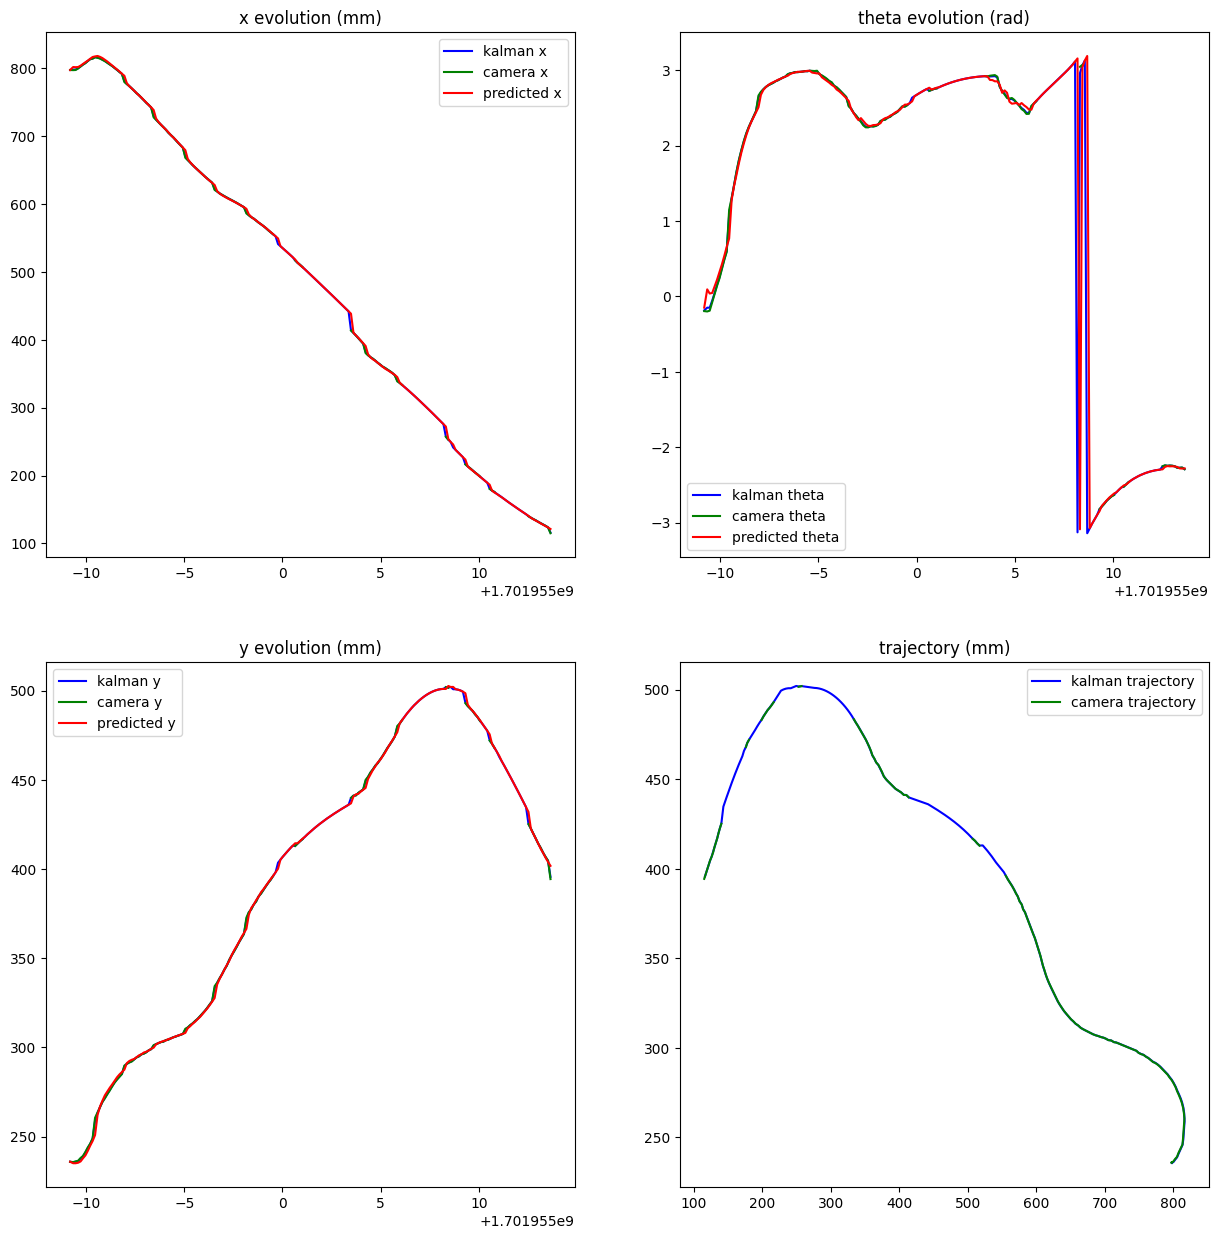
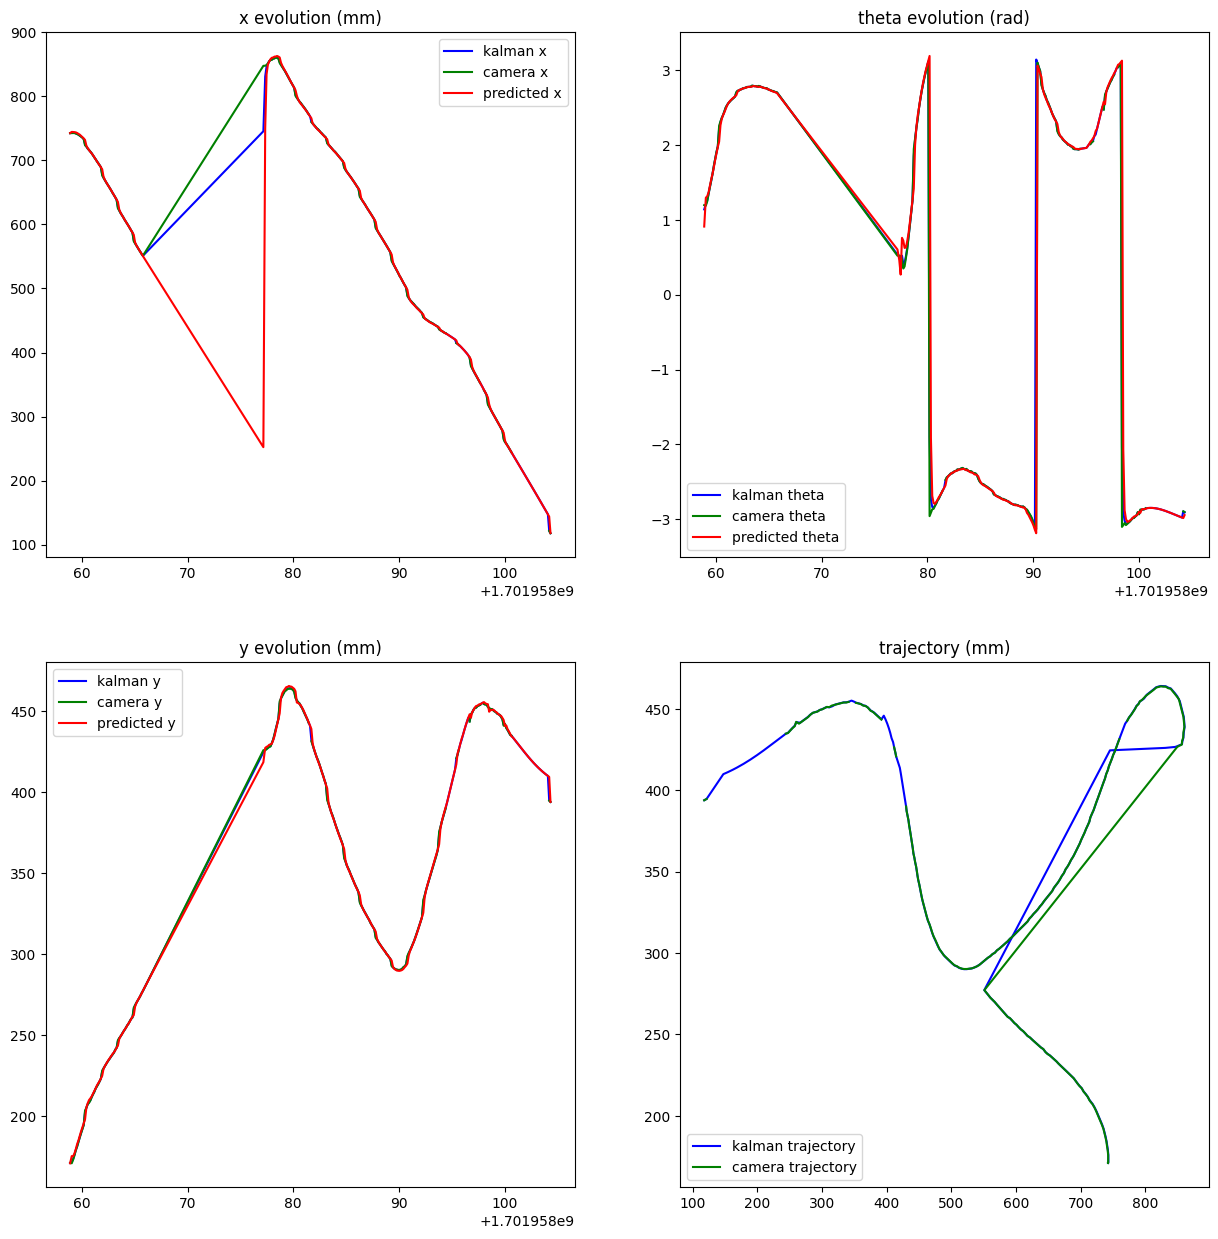
kidnapping

diff --git a/main.py b/main.py
@@ -83,6 +83,7 @@ while initial_pos is None or end_point is None:
     (thymio_corners, initial_pos, initial_teta) = thymio_init
     (end_point_corners,end_point)=find_end_point(detected)
 
+
 #fill the thymio aruco with white -> thymio+end_point
 aruco_fill(map, thymio_corners)
 aruco_fill(map, end_point_corners)
@@ -146,12 +147,26 @@ start_time = time.time()
 
 while True:
 
+    aw(node.wait_for_variables({"button.forward"}))
+    #prox_meas = node.button.foreward == 1 
+    if node.v.button.forward == 1  :
+        aw(node.set_variables(Msg_motors(0, 0)))
+        while True :
+            if cv2.waitKey(1) & 0xFF == ord('k'):
+                ret, frame = cam.read()
+                roi = get_ROI(frame, M)
+                roi_gray = cv2.cvtColor(roi, cv2.COLOR_BGR2GRAY) #gray transform for aruco detection
+                detected = cv2.aruco.detectMarkers(roi_gray, arucoDict, parameters=arucoParams)
+                thymio_pos = find_thymio(detected)
+                do_path = 1
+                break
     
 
     ###### PATH PLANNING ######
     # Perform the path finding algorythm if the flag do_path is 1
     if do_path == 1 :
-        path, connections, nodelist = run_global( obstacle_map, start_node, initial_pos.tolist(), target_node, target.tolist(), offset, 20, 40) #, point_threshold, area_threshold)
+        
+        path, connections, nodelist = run_global( obstacle_map, start_node, thymio_pos[1].tolist(), target_node, target.tolist(), offset, 20, 40) #, point_threshold, area_threshold)
         positions_triees = {indice: nodelist[indice] for indice in path}        # nodelist gives all the nodes (directory of nodes)
         pathpoints = np.array(list(positions_triees.values()))[::-1]            # get a list of points coordinates from directorie 'node' and 'path' indexs
         cv2.destroyAllWindows()

diff --git a/test.py b/test.py
@@ -1,0 +1,29 @@
+import cv2
+import cv2.aruco as aruco
+# from skimage.filters import threshold_otsu
+import numpy as np
+import matplotlib.pyplot as plt
+import networkx as nx
+import time
+import copy
+from timeit import default_timer as timer
+from tdmclient import ClientAsync, aw
+
+
+
+client = ClientAsync()
+node = aw(client.wait_for_node())
+aw(node.lock())
+aw(client.sleep(2))   
+
+while True : 
+    
+    aw(node.wait_for_variables({"button.forward"}))
+    
+    print(node.v.button.forward)
+    aw(client.sleep(1)) 
+        # Break the loop if 'q' is pressed
+    if cv2.waitKey(1) & 0xFF == ord('q'):
+        # release the Thymio
+        aw(node.unlock())
+        break
